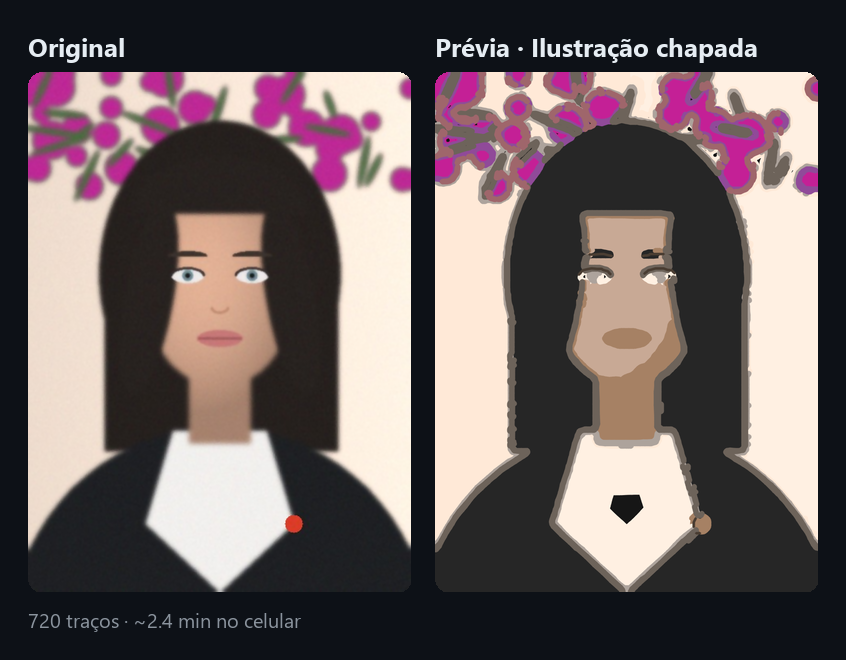
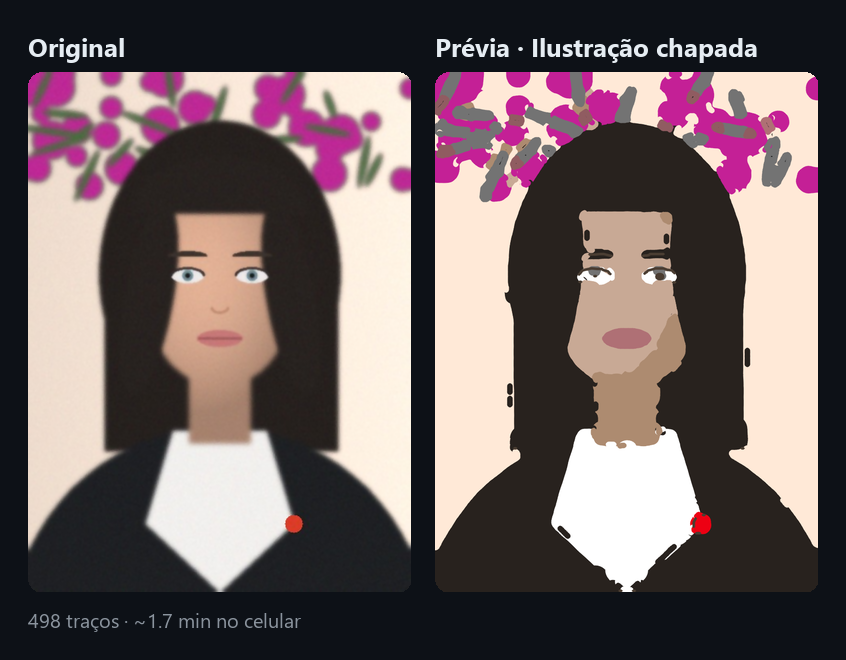
Ilustração chapada: detalhes pequenos, miolos cobertos e bordas sem halo
No retrato de exemplo o broche vermelho e a boca rosa viravam cor de pele,
os olhos sumiam, havia halos cinza em volta do cabelo e um "pentágono"
preto no meio da gola branca.

- Toque no miolo dos anéis de preenchimento com 4 px no centro do miolo;
  com 1 px era descartado pelo sanitizador (< 2,5 px) e deixava buraco.
  Só ficam os toques que cobrem algo que os anéis não cobriram.
- Cores treinadas só nos pixels de miolo; cores pequenas a mais de ~18 ΔE
  de todos os grupos ganham grupo próprio (broche, boca).
- Pixels de transição herdam a cor do miolo vizinho no espaço (sem halos),
  também no Livro de colorir / Traçado colorido.
- Testes de regressão e imagens do README atualizados.

diff --git a/studio/planning/area_fill.py b/studio/planning/area_fill.py
@@ -40,12 +40,20 @@ def concentric_rings(core: np.ndarray, step: int, min_area: float = 2.0) -> List
         for c in contours:
             pts = [(int(x), int(y)) for x, y in cv2.approxPolyDP(c, 0.8, True).reshape(-1, 2)]
             if len(pts) < 3 or cv2.contourArea(c) < min_area:
-                x, y = pts[0]
-                rings.append([(x, y), (x + 1, y)])  # miolo pequeno: um toque cobre
+                # Miolo pequeno: um toque no centro cobre. Com 4 px de percurso; um
+                # toque de 1 px era descartado pelo sanitizador (< 2,5 px) e deixava
+                # o miolo sem tinta (buraco no meio da gola branca do retrato).
+                x, y = (int(round(v)) for v in np.mean(c.reshape(-1, 2), axis=0))
+                rings.append([(x - 2, y), (x + 2, y)])
             else:
                 rings.append(pts + [pts[0]])
         current = cv2.erode(current, kernel)
     return rings
+
+
+def _is_tap(stroke: Stroke) -> bool:
+    """Toque curto no miolo de um anel (ver concentric_rings)."""
+    return len(stroke) == 2 and abs(stroke[1][0] - stroke[0][0]) + abs(stroke[1][1] - stroke[0][1]) <= 4
 
 
 def _draw(shape, strokes: Sequence[Stroke], width: int) -> np.ndarray:
@@ -72,7 +80,7 @@ def centerline_strokes(mask: np.ndarray, min_length: float = 3.0) -> List[Stroke
         comp = labels == i
         if stats[i, cv2.CC_STAT_AREA] >= 4 and not covered[comp].any():
             cx, cy = (int(round(v)) for v in centroids[i])
-            strokes.append([(cx, cy), (cx + 1, cy)])
+            strokes.append([(cx - 2, cy), (cx + 2, cy)])
     return strokes
 
 
@@ -109,8 +117,21 @@ def fill_region(mask: np.ndarray, brush_levels: Sequence[Tuple[str, float]],
         rings = concentric_rings(core, max(2, int(round(width * 0.75))))
         if not rings:
             continue
-        result.setdefault(level, []).extend(rings)
-        remaining = cv2.bitwise_and(remaining, cv2.bitwise_not(_draw(mask.shape, rings, width)))
+        loops = [s for s in rings if not _is_tap(s)]
+        remaining = cv2.bitwise_and(remaining, cv2.bitwise_not(_draw(mask.shape, loops, width)))
+        # Toques nos miolos pequenos só quando cobrem algo que os anéis deixaram:
+        # a maioria cai em área já pintada e só alongaria a pintura.
+        kept = []
+        disk_area = np.pi * r * r
+        for tap in (s for s in rings if _is_tap(s)):
+            x, y = (int(round(v)) for v in np.mean(np.asarray(tap, np.float32), axis=0))
+            spot = np.zeros_like(remaining)
+            cv2.circle(spot, (x, y), r, 255, -1)
+            if np.count_nonzero(cv2.bitwise_and(spot, remaining)) >= max(leftover_min_area, 0.15 * disk_area):
+                kept.append(tap)
+                remaining = cv2.bitwise_and(remaining, cv2.bitwise_not(spot))
+        if loops or kept:
+            result.setdefault(level, []).extend(loops + kept)
     # Sobras: só as que valem um traço (bordas de 1 px ficam sob o contorno)
     n, labels, stats, _ = cv2.connectedComponentsWithStats(remaining)
     leftover = np.zeros_like(remaining)

diff --git a/studio/planning/line_art_engine.py b/studio/planning/line_art_engine.py
@@ -22,6 +22,7 @@ from .. import config
 from ..device.brush_width import FINE_LEVEL, FINE_DRAWN_PX, TRACK_MIN_WIDTH_PX, drawn_width_px, is_fine_level
 from .area_fill import fill_region, estimate_paint_time
 from .color_extraction import (ink_mask_from_background, stroke_colors, region_color, group_colors,
+                               uniform_color_mask, labels_from_nearest_pure,
                                enclosed_regions, lab_to_rgb, to_lab)
 from .pictorial_quality import (
     NegativeSpaceAnalyzer,
@@ -131,9 +132,10 @@ class LineArtEngine:
                 approx = cv2.approxPolyDP(c, 0.8, True).reshape(-1, 2)
                 pts = [(int(x), int(y)) for x, y in approx]
                 if len(pts) == 1 or cv2.contourArea(c) < 2:
-                    # Miolo pequeno demais para um anel: um toque cobre o resto
-                    x, y = pts[0]
-                    strokes.append([(x, y), (x + 1, y)])
+                    # Miolo pequeno demais para um anel: um toque no centro cobre o resto
+                    # (4 px de percurso: com 1 px o sanitizador o descartava)
+                    x, y = (int(round(v)) for v in np.mean(c.reshape(-1, 2), axis=0))
+                    strokes.append([(x - 2, y), (x + 2, y)])
                 else:
                     strokes.append(pts + [pts[0]])
             current = cv2.erode(current, ring_kernel)
@@ -472,12 +474,7 @@ class LineArtEngine:
         bg_lab = to_lab(np.uint8([[bg_rgb[::-1]]]))[0, 0]
 
         # Pixels de miolo: vizinhança 5x5 de cor uniforme (fora das transições antisserrilhadas)
-        spread = np.zeros(lab_img.shape[:2], np.float32)
-        for ch in range(3):
-            c = lab_img[..., ch].astype(np.float32)
-            k5 = np.ones((5, 5), np.uint8)
-            spread = np.maximum(spread, cv2.dilate(c, k5) - cv2.erode(c, k5))
-        lab_uniform = spread < 12.0
+        lab_uniform = uniform_color_mask(lab_img, max_spread=12.0)
 
         # 1. Áreas: formas largas de tinta (separadas por cor) e, no livro de colorir, o miolo entre as linhas.
         #    Faixas finas de cada cor (ex.: contorno preto grudado no corpo colorido) viram linhas.
@@ -491,6 +488,11 @@ class LineArtEngine:
                     lbl, centers = cls._color_clusters(pix, pure=lab_uniform[comp > 0])
                     full = np.full(comp.shape, -1, np.int32)
                     full[comp > 0] = lbl
+                    # Transições herdam a cor do miolo vizinho (sem faixas de cor intermediária)
+                    inside_pure = lab_uniform & (comp > 0)
+                    if inside_pure.any():
+                        spread_lbl = labels_from_nearest_pure(full, inside_pure)
+                        full[comp > 0] = spread_lbl[comp > 0]
                     for j in range(len(centers)):
                         part = cv2.morphologyEx((full == j).astype(np.uint8) * 255, cv2.MORPH_OPEN, np.ones((3, 3), np.uint8))
                         if np.count_nonzero(part) >= 30:

diff --git a/studio/planning/flat_illustration.py b/studio/planning/flat_illustration.py
@@ -19,7 +19,7 @@ import cv2
 import numpy as np
 
 from .area_fill import fill_region, estimate_paint_time, centerline_strokes
-from .color_extraction import to_lab, lab_to_rgb
+from .color_extraction import to_lab, lab_to_rgb, uniform_color_mask, labels_from_nearest_pure
 from .path_sanitizer import PathSanitizer
 from ..core.models import CanvasTransform, StrokePlan
 from .. import config
@@ -118,16 +118,31 @@ class FlatIllustrationEngine:
         smooth = cv2.pyrMeanShiftFiltering(fit_img, sp=8, sr=18)
         lab = to_lab(smooth).reshape(-1, 3).astype(np.float32)
 
-        # 1. Cores: k-means em Lab com semente fixa (prévia reprodutível)
+        # 1. Cores: k-means em Lab com semente fixa (prévia reprodutível).
+        #    Treina só nos pixels de miolo (vizinhança de cor uniforme): as transições
+        #    entre cabelo e fundo ocupavam grupos inteiros (halos cinza) e faltavam
+        #    grupos para cores pequenas e distintas (broche vermelho, boca rosa).
         cv2.setRNGSeed(seed)
         k = max(2, min(int(num_colors), 24))
-        # Treina numa amostra (rápido) e rotula todos os pixels pelo centro mais próximo
+        criteria = (cv2.TERM_CRITERIA_EPS + cv2.TERM_CRITERIA_MAX_ITER, 30, 0.3)
+        pure_mask = uniform_color_mask(lab.reshape(h, w, 3))
+        pure = lab[pure_mask.ravel()]
+        if len(pure) < 5 * k:
+            pure = lab
         rng = np.random.default_rng(seed)
-        sample = lab[rng.choice(len(lab), size=min(len(lab), 60000), replace=False)]
-        _, _, centers = cv2.kmeans(sample, k, None, (cv2.TERM_CRITERIA_EPS + cv2.TERM_CRITERIA_MAX_ITER, 30, 0.3),
-                                   3, cv2.KMEANS_PP_CENTERS)
+        sample = pure[rng.choice(len(pure), size=min(len(pure), 60000), replace=False)]
+        _, _, centers = cv2.kmeans(sample, k, None, criteria, 3, cv2.KMEANS_PP_CENTERS)
+        # Cores pequenas que nenhum grupo representa (a mais de ~18 ΔE) ganham grupo próprio
+        far = pure[((pure[:, None, :] - centers[None, :, :]) ** 2).sum(axis=2).min(axis=1) > 18.0 ** 2]
+        if len(far) >= min_region_area:
+            extra = int(min(3, max(1, len(far) // (4 * min_region_area))))
+            cv2.setRNGSeed(seed)
+            _, _, extra_centers = cv2.kmeans(far.astype(np.float32), extra, None, criteria, 3, cv2.KMEANS_PP_CENTERS)
+            centers = np.vstack([centers, extra_centers])
+            k = len(centers)
         dists = ((lab[:, None, :] - centers[None, :, :]) ** 2).sum(axis=2)
         labels = dists.argmin(axis=1).reshape(h, w).astype(np.int32)
+        labels = labels_from_nearest_pure(labels, pure_mask)
 
         # 2. Cada grupo vira uma tinta executável; grupos na mesma tinta se unem
         touches, executable = [], []

diff --git a/tests/test_flat_illustration_details.py b/tests/test_flat_illustration_details.py
@@ -1,0 +1,56 @@
+# -*- coding: utf-8 -*-
+"""Ilustração chapada: cores pequenas e distintas, miolos cobertos e bordas sem halo."""
+import math
+import unittest
+
+import cv2
+import numpy as np
+
+from studio.painter_engine import PainterEngine
+from studio.planning.area_fill import fill_region
+from studio.planning.flat_illustration import AREA_LEVELS
+
+
+class TestAreaFillTaps(unittest.TestCase):
+    def test_small_core_tap_survives_sanitizer(self):
+        """O toque no miolo de um anel tinha 1 px e era descartado (< 2,5 px), deixando um buraco."""
+        mask = np.zeros((300, 300), np.uint8)
+        cv2.fillPoly(mask, [np.array([(150, 40), (250, 120), (215, 250), (85, 250), (50, 120)], np.int32)], 255)
+        result = fill_region(mask, AREA_LEVELS, thin_level=("min", 10.0))
+        for strokes in result.values():
+            for s in strokes:
+                self.assertGreaterEqual(sum(math.dist(a, b) for a, b in zip(s, s[1:])), 2.5)
+        widths = dict(AREA_LEVELS)
+        painted = np.zeros_like(mask)
+        for lvl, strokes in result.items():
+            for s in strokes:
+                cv2.polylines(painted, [np.int32(s).reshape(-1, 1, 2)], False, 255, int(widths[lvl]))
+        self.assertGreater(np.count_nonzero(painted[mask > 0]) / np.count_nonzero(mask), 0.97)
+
+
+class TestPortraitDetails(unittest.TestCase):
+    @classmethod
+    def setUpClass(cls):
+        cls.plan = PainterEngine().generate_flat_illustration_plan("inputs/retrato.jpg", num_colors=10)
+
+    def test_small_distinct_colors_survive(self):
+        """Broche vermelho e boca rosa viravam a cor da pele (faltavam grupos de cor)."""
+        rgbs = [l["color_rgb"] for l in self.plan["layers"]]
+        self.assertTrue(any(r > 180 and g < 90 and b < 90 for r, g, b in rgbs), "broche vermelho")
+        self.assertTrue(any(r > 160 and 80 < g < 140 and 100 < b < 160 for r, g, b in rgbs), "boca rosa")
+
+    def test_no_unpainted_hole_in_collar(self):
+        sim = self.plan["simulation_image"]
+        h, w = sim.shape[:2]
+        dark = (sim.max(axis=2) < 40).astype(np.uint8)
+        n, _, stats, _ = cv2.connectedComponentsWithStats(dark)
+        holes = [stats[i] for i in range(1, n)
+                 if stats[i][4] > 200 and stats[i][1] > h * 0.6 and w * 0.3 < stats[i][0] < w * 0.7]
+        self.assertFalse(holes)
+
+    def test_plan_is_approved(self):
+        self.assertTrue(self.plan["quality_gate"].passed)
+
+
+if __name__ == "__main__":
+    unittest.main()

diff --git a/studio/planning/color_extraction.py b/studio/planning/color_extraction.py
@@ -23,6 +23,32 @@ def lab_to_rgb(lab: Sequence[float]) -> RGB:
     return tuple(int(round(float(np.clip(v, 0, 1)) * 255)) for v in rgb)
 
 
+def uniform_color_mask(lab_img: np.ndarray, window: int = 5, max_spread: float = 10.0) -> np.ndarray:
+    """Pixels de miolo: a cor varia pouco na vizinhança (fora das transições antisserrilhadas)."""
+    spread = np.zeros(lab_img.shape[:2], np.float32)
+    kernel = np.ones((window, window), np.uint8)
+    for ch in range(3):
+        c = np.ascontiguousarray(lab_img[..., ch], dtype=np.float32)
+        spread = np.maximum(spread, cv2.dilate(c, kernel) - cv2.erode(c, kernel))
+    return spread < max_spread
+
+
+def labels_from_nearest_pure(labels: np.ndarray, pure: np.ndarray) -> np.ndarray:
+    """Cada pixel de transição herda o rótulo do pixel de miolo mais próximo no espaço.
+
+    Pela cor mais parecida, a borda entre cabelo escuro e fundo claro caía num
+    cinza intermediário e virava um halo em volta de tudo; pela vizinhança, a
+    borda se divide entre as duas cores que ela separa.
+    """
+    if pure.all() or not pure.any():
+        return labels
+    src = (~pure).astype(np.uint8)
+    _, idx = cv2.distanceTransformWithLabels(src, cv2.DIST_L2, 5, labelType=cv2.DIST_LABEL_PIXEL)
+    out = labels.copy()
+    out[~pure] = labels[pure][idx[~pure] - 1]  # rótulos de pixel numerados em ordem de leitura
+    return out
+
+
 def ink_mask_from_background(img_bgr: np.ndarray, bg_rgb: RGB, gray_mask: np.ndarray,
                              min_delta_e: float = 22.0) -> np.ndarray:
     """Tinta = pixels escuros (Otsu) OU de cor bem diferente do fundo.

diff --git a/studio/planning/negative_shapes.py b/studio/planning/negative_shapes.py
@@ -65,7 +65,7 @@ class NegativeShapeEngine:
                 if m["m00"] > 0:
                     cx = int(round(m["m10"] / m["m00"]))
                     cy = int(round(m["m01"] / m["m00"]))
-                    eraser_strokes.append([(cx - 1, cy), (cx + 1, cy)])
+                    eraser_strokes.append([(cx - 2, cy), (cx + 2, cy)])
             else:
                 # Se for linear ou fresta, segue o esqueleto interno
                 skel_local = np.zeros(negative_mask.shape, dtype=np.uint8)

diff --git a/README.md b/README.md
@@ -8,7 +8,7 @@
 
 [![Python](https://img.shields.io/badge/python-3.10%2B-3776AB?logo=python&logoColor=white)](https://www.python.org/)
 [![Plataforma](https://img.shields.io/badge/plataforma-Windows%20%7C%20Android%20via%20ADB-555)](#-requisitos)
-[![Testes](https://img.shields.io/badge/testes-377%20passando-2ea44f)](#-testes)
+[![Testes](https://img.shields.io/badge/testes-381%20passando-2ea44f)](#-testes)
 [![Licença](https://img.shields.io/badge/licen%C3%A7a-MIT-blue)](LICENSE)
 
 [Recursos](#-recursos) · [Galeria](#%EF%B8%8F-galeria) · [Instalação](#-instalação) · [Como usar](#-como-usar) · [Como funciona](#%EF%B8%8F-como-funciona) · [MCP](#-servidor-mcp-para-agentes-de-ia) · [Limitações](#-limitações-conhecidas)
@@ -167,7 +167,7 @@ python -m studio.mcp.server      # stdio JSON-RPC
 python -m unittest discover -s tests -p "test_*.py"
 ```
 
-São 377 testes que rodam **sem celular**. Eles cobrem planejamento, simulação, QualityGate, segurança fail-closed, interface, MCP e execução de ponta a ponta contra um `FakeADB` que desenha num canvas virtual com as mesmas larguras da prévia.
+São 381 testes que rodam **sem celular**. Eles cobrem planejamento, simulação, QualityGate, segurança fail-closed, interface, MCP e execução de ponta a ponta contra um `FakeADB` que desenha num canvas virtual com as mesmas larguras da prévia.
 
 ---
 
